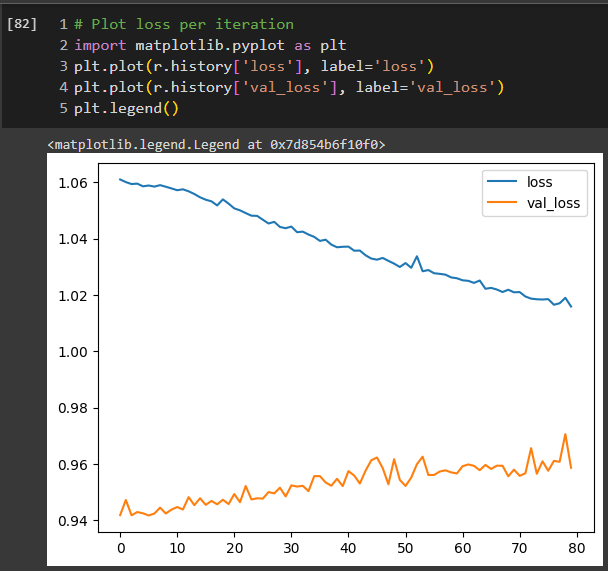
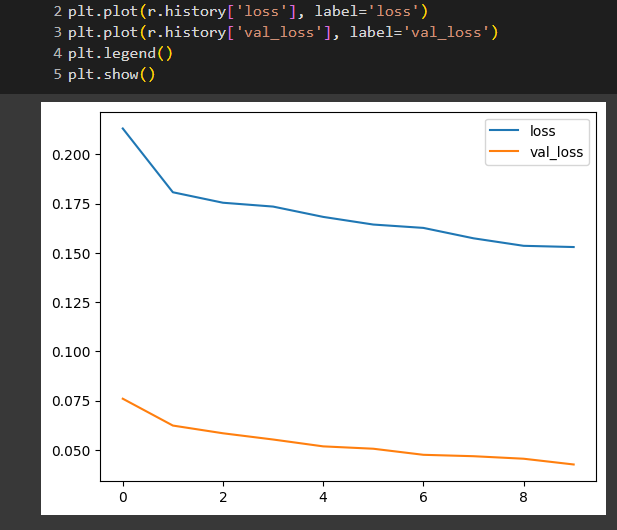
FIN-61: Create production deployments

Changed region(s): [[0.0, 0.0, 1.0, 0.9962], [0.4375, 0.3925, 0.7812, 0.483], [0.25, 0.7849, 0.3438, 0.8151]]

diff --git a/backend/forecaster/Readme.md b/backend/forecaster/Readme.md
@@ -2,13 +2,26 @@
 
 - see Colab notebook for analysis details and code : https://colab.research.google.com/drive/1fu2YAWgXiQyEkUHabxrSh73BV5gjpMFk#scrollTo=JqNoUw0OGx3u&uniqifier=1
 
-## General points
+# General points
 
-### Model integration
+## Defining the main goal
+
+The main goal is to have predictions possible for a configurable number of steps in the future and for a given stock.
+
+The predictions are of return values (i.e. the increase in percentage in the values at close ).
+
+The steps should be configurable with the remark that prediction quality will llikely worsen the further in the future we try to predict.
+
+#### Design choice
+The model will attempt to predict on single stock symbols only (i.e. will will not consider possible inter-symbol correlations).\
+This comes from the way we sample data on the frontend , to keep the logic simple. \
+Alternatives would be to buffer or synchronize requests before running a model on them or have the process running in the background for all symbols.
+
+## Model integration
 We will use a suitable Time Series model that will export the predictions in a specific format.\
 This is so we can switch the model based on performance.
 
-### Model training
+## Model training
 
 We cannot find a free model pre-trained on the specific data we have. \
 To train a model from scratch we will pull data from the finnhub provider for the max available time interval.\
@@ -40,28 +53,19 @@ We receive the following structure:
 
 ## Dataset construct
 
-We will define the module predictions as a vector of closing prices for a given moment in time : C(t).
+We will consider the use case of predicting over single-stock candle data.
 
-We will define the features vector as a sample vector of received data (including the closing prices) for t-1: S(t-1).
+As such we will stack the data we have for the different symbols and we can fit the model iteratively over all of them.
 
-We will have a time series prediction, meaning our model will attempt to predict the C for the next candle.
+The normalization phase also needs to fit the scaler model over as much of the symbols as possible (due to variation in sizes).
 
-We will also use only 10 stocks for the predictions. This means our C vector will be shaped as [10 x 1].
+We will define the features vector as a sample vector of received data (including the closing prices).
 
-Our input data matrix will be shaped like [N x M x 1] where:
-- N is the number of samples we will pull from the finnhub as training data
-- M is the size of one sample vector. To simplify the concept we will concatenate the candle vectors from all the stocks, i.e. for 3 stocks A, B, C we would have sample = [oa, ha, la, va, ca.., lc, vc, t]
-Note the following:
-    - t is taken only once since t should be common for all stocks
-    - c values are also included. This makes sense in the context of a timeseries where past values are predictors for current values. This also explains the decrease in accuracy as we predict further into the future as the errors accrued at each step will accumulate.
-- 1 is the sample size for each symbol but since we concatenate all, this will be 1.
+We will have a time series prediction, meaning our model will attempt to predict the next feature vector for the next point in time. 
 
+We will also use only 10 stocks for the predictions to limit the size of the dataset and the model training duration.
 
-In short we will have the following:
-
-[ca(t), cb(t), cc(t) ] = f(sample(t-1)). where sample(t-1) also contains ca(t-1), cb(t-1), cc(t-1).
-
-## Challenges
+## Some Challenges
 
 ### Different sample times for the different stocks
 Filling missing data with suitable values (ex. gaps in sampled data for a single stock).\
@@ -100,26 +104,26 @@ An alternative to explore would be to cut out these intervals completely .
 
 # Model
 
-We use a generic LSTM model which we will train with time series data.
+We use a generic LSTM model which we will train with time series data.\
+The model is stored and can be further trained or simply loaded and used as is.
 
-## Single stock prediction
+## Scaler
+The same as for the model applies to the pre-trained scaler: it is saved and loadable on a backend service.
+
+## Training
+
+We only train the model for 10 epochs. \
+The observation is that around 10 epochs the loss decrease seems to taper-off so training for longer on this amount of data is not likely to improve the performance.
+
+## Predictions
 
 We first have a look on how well a model is able to predict the next value in a sequence.
-We use a 10 elements window and the AAPL symbol .
+We use a 50 elements window and a set of 5 features taken for a "generic" stock symbol.
 
-Looking at the results we see that the model does decrease the loss by a tiny margin(aka it's learning) however as the loss decreases on the training data we see it increasing on the validation/test data.
-This means the model is basically learning the "noise" and attempting to fit the training set without being able to generalize and predict well on unseen data.
+Looking at the results we see that the model does decrease the loss by a small margin(aka it's learning) this is also decreasing the loss on the validation data. 
+
+The remark to make here is that this is a single step prediction measure taken during the learning phase. 
+The real challenge comes from multistep predictions that would allow time to also act on te findings.
 
 ![Alt text](readmeimgs/loss-vs-validation.png)
 
-## Train on all
-
-We will define a larger window (50) and add all data we have for the training.\
-We'll split 70-30 to also have a test dataset.\
-THe shape of our input dataset will be: [M, T, D], where:
-- M : number of samples we refine based on our dataset and window size
-- T : window size
-- D : size of the features vector.
-
-First build the shifted frame (current values are labels for for past values).
-![Alt text](readmeimgs/data_process_prev.png)

diff --git a/README.md b/README.md
@@ -44,6 +44,14 @@ Used sites:
 - https://worship.agency/mobile-screen-sizes-for-2023-based-on-data-from-2022
 - https://gs.statcounter.com/screen-resolution-stats/mobile/worldwide
 
+##  Forecasting service
+
+The service provides 60 minutes return forecasting for each of the selected stocks.
+
+The forecasting figure are updated every minute (plus the time it takes to model to process the data and output results).
+
+![Alt text](readme_imgs/model_forecast.png)
+
 ## Libraries and build tools
 
 We use bootstrap and Angular Material as a styling librares.   
@@ -89,7 +97,7 @@ Spin up the services associated with a profile using :
 ### Profiles scope and rationale:
 
 General note:
-- no proper migration schema is prepared for the Dashboards DB. For this reason, the ORM library on the service is set to "synchronize" and recreates the structure automatically. This would not be feasible in a persitent data situation (could destroy data on a schema cheange) but it works OK in the scope of this demo.
+- no proper migration schema is prepared for the Dashboards DB. For this reason, the ORM library on the service is set to "synchronize" and recreates the structure automatically. This would not be feasible in a persitent data situation (could destroy data on a schema change) but it works OK in the scope of this demo.
 
 #### Dev
 
@@ -97,6 +105,10 @@ Profile intended for development.
 - Image build is enabled and the images are bind-mounted to local host source folders.
 - Hot-replace is enbabled for all services.
 - Uses an in-mem database solution, preloaded with a couple of samples to facilitate quick tests during development.
+
+Run from the deploy folder with:
+
+                docker compose --profile dev up
 
 #### Test 
 
